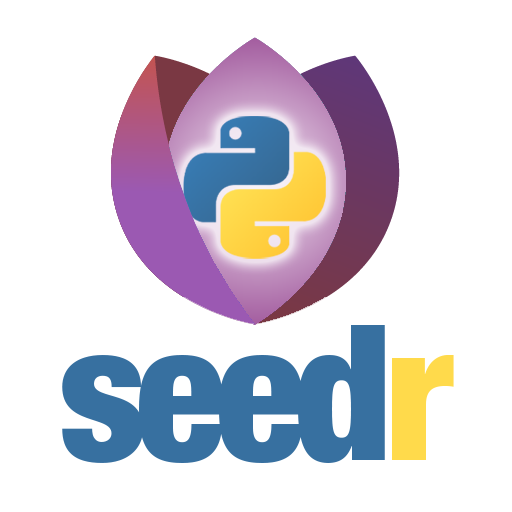
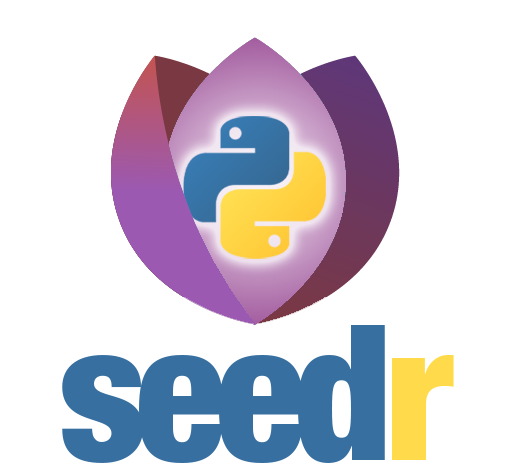
Change image resolution

diff --git a/README.md b/README.md
@@ -1,5 +1,5 @@
 <p align="center">
-<img src="https://raw.githubusercontent.com/hemantapkh/seedrcc/master/docs/images/seedrcc.png" align="center" height=250 alt="1337x" />
+<img src="https://raw.githubusercontent.com/hemantapkh/seedrcc/master/docs/images/seedrcc.png" align="center" height=250 alt="seedrpy logo" />
 </p>
 
 <h2 align='center'>Python API Wrapper of Seedr.cc</h2>
@@ -213,7 +213,7 @@ Any contributions you make are **greatly appreciated**.
 5. Open a Pull Request
 
 
-*Thanks to every [contributors](https://github.com/hemantapkh/1337x/graphs/contributors) who have contributed in this project.*
+*Thanks to every [contributors](https://github.com/hemantapkh/seedrcc/graphs/contributors) who have contributed in this project.*
 
 ## Projects using this API
 
